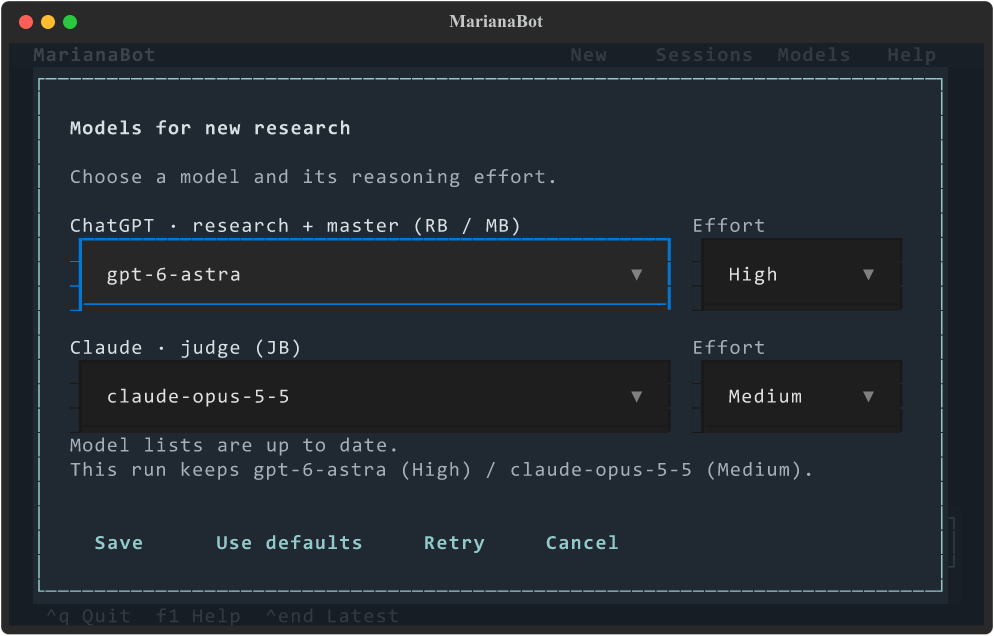
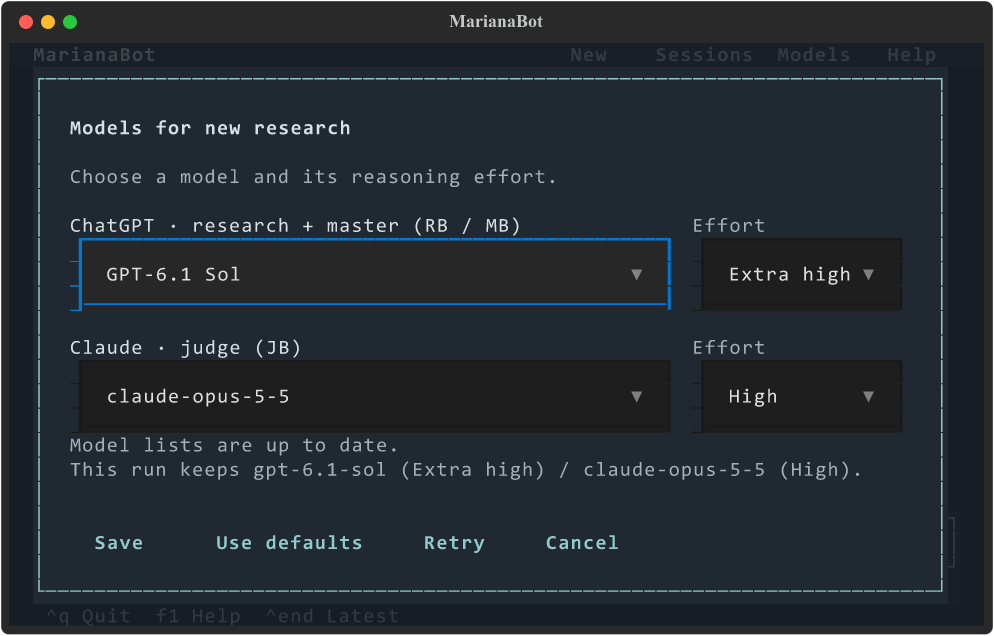
Refresh sample screenshots

diff --git a/scripts/capture_chat.py b/scripts/capture_chat.py
@@ -1,5 +1,6 @@
 """Offline visual review: python scripts/capture_chat.py (optional: pip install resvg-py)."""
 
+import argparse
 import asyncio
 import os
 import tempfile
@@ -8,16 +9,16 @@ from pathlib import Path
 from unittest.mock import patch
 
 from marianabot.chat import Composer, MarianaChat
-from marianabot.config import Config
+from marianabot.config import Config, save_model_preferences
 from marianabot.engine import Engine
 from marianabot.model_catalog import ModelOption
 from marianabot.store import Store
 from marianabot.usage import normalize_usage
 
 
-async def main():
+async def main(output: Path):
     os.environ.pop("NO_COLOR", None)  # Capture the default color UI, regardless of CI logging mode.
-    output = Path(".mariana/visual-review").resolve()
+    output = output.resolve()
     output.mkdir(parents=True, exist_ok=True)
     with tempfile.TemporaryDirectory(prefix="mariana-visual-") as temp:
         state = Path(temp)
@@ -36,13 +37,17 @@ async def main():
             app.save_screenshot("help.svg", path=str(output))
         store = Store(state)
         config = Config()
+        config.rb.model, config.rb.effort = "gpt-6.1-sol", "xhigh"
+        config.jb.effort = "high"
+        save_model_preferences(state / "mariana.toml", config, None)
         config.research.max_rounds = 2
         config.research.min_rounds = 1
-        run_id = store.create_run(
-            "Develop a 30-day pilot for a local business subscription service. Budget: EUR 2,000. Time: 10 hours per week.",
-            config,
-            demo=True,
-        )
+        with patch("marianabot.store.research_id", return_value="MB-7K3M-9Q2R-5V8N"):
+            run_id = store.create_run(
+                "Evaluate a paid pilot for a local repair scheduling service. Budget: EUR 2,000. Time: 10 hours per week.",
+                config,
+                demo=True,
+            )
         await Engine(store, run_id).run()
         store.close()
         app = MarianaChat(state, state / "mariana.toml", demo=True, run_id=run_id)
@@ -81,14 +86,18 @@ async def main():
         # Synthetic account reports exercise the working layout without contacting providers.
         fixture = state / "usage-fixture"
         store = Store(fixture)
-        run_id = store.create_run("Usage display fixture. No model calls were made.", config)
+        with patch("marianabot.store.research_id", return_value="MB-7K3M-9Q2R-5V8N"):
+            run_id = store.create_run(
+                "Evaluate a paid pilot for a local repair scheduling service. Budget: EUR 2,000. Time: 10 hours per week.\n\nSynthetic preview; no model calls were made.",
+                config,
+            )
         store.update_run(run_id, status="running", round=2)
         store.message(
             run_id,
             "plan",
             "RB",
             "Round 2 · Research plan",
-            "### Test demand before committing the budget\n\nRecruit ten local businesses for interviews this week. Offer three paid pilots before building the full service.\n\n**Open question:** will buyers pay enough to cover delivery time?\n\nJB is checking the pricing assumptions and the cost of acquiring customers.",
+            "### Test demand before committing the budget\n\nInterview ten repair shops this week. Run a two-week pilot with five shops before building the full service.\n\n**Changed:** smaller pilot, a fixed spending ceiling and explicit cancellation criteria.\n\n**Open question:** will buyers pay enough to cover delivery time?\n\nJB is checking the pricing assumptions and the cost of acquiring customers.",
         )
         now = time.time()
         for provider, brain, incoming, outgoing in (
@@ -131,7 +140,7 @@ async def main():
 
         app = MarianaChat(fixture, state / "mariana.toml", run_id=run_id, manager=PreviewManager())
         with patch.object(app, "request_usage_refresh", return_value=None):
-            async with app.run_test(size=(120, 32)) as pilot:
+            async with app.run_test(size=(120, 38)) as pilot:
                 await pilot.pause(1)
                 app.save_screenshot("usage.svg", path=str(output))
                 await pilot.resize_terminal(80, 24)
@@ -152,4 +161,6 @@ async def main():
 
 
 if __name__ == "__main__":
-    asyncio.run(main())
+    parser = argparse.ArgumentParser(description=__doc__)
+    parser.add_argument("--output", type=Path, default=Path(".mariana/visual-review"))
+    asyncio.run(main(parser.parse_args().output))

diff --git a/scripts/preview_discord.py b/scripts/preview_discord.py
@@ -15,7 +15,7 @@ def fixtures() -> list[dict]:
     config.rb.model, config.rb.effort = "gpt-6.1-sol", "xhigh"
     config.jb.effort = "high"
     run = dict(
-        id="preview-only",
+        id="MB-7K3M-9Q2R-5V8N",
         problem="Evaluate a paid pilot for a local repair scheduling service.",
         config=config.model_dump_json(),
         demo=True,
@@ -112,22 +112,38 @@ def svg_card(embed: dict) -> str:
     """One representative card for a portable visual review."""
     elements, y = [], 58
 
-    def text(value: str, *, bold=False, muted=False, width=76):
+    def text(value: str, *, bold=False, muted=False, width=76, x=38):
         nonlocal y
         for paragraph in value.splitlines():
             for line in textwrap.wrap(paragraph, width) or [""]:
                 elements.append(
-                    f'<text x="38" y="{y}" font-size="{14 if bold else 13}" font-weight="{600 if bold else 400}" fill="{"#aab0bb" if muted else "#e1e3e8"}">{html.escape(line)}</text>'
+                    f'<text x="{x}" y="{y}" font-size="{14 if bold else 13}" font-weight="{600 if bold else 400}" fill="{"#aab0bb" if muted else "#e1e3e8"}">{html.escape(line)}</text>'
                 )
                 y += 20
 
     text(embed["title"], bold=True)
     y += 6
     text(embed["description"])
-    for field in embed["fields"]:
+    fields = iter(embed["fields"])
+    pending = next(fields, None)
+    while pending:
         y += 14
-        text(field["name"], bold=True)
-        text(field["value"])
+        if not pending["inline"]:
+            text(pending["name"], bold=True)
+            text(pending["value"])
+            pending = next(fields, None)
+            continue
+        row = []
+        while pending and pending["inline"] and len(row) < 3:
+            row.append(pending)
+            pending = next(fields, None)
+        top, bottom = y, y
+        for column, field in enumerate(row):
+            y = top
+            text(field["name"], bold=True, width=26, x=38 + column * 202)
+            text(field["value"], width=26, x=38 + column * 202)
+            bottom = max(bottom, y)
+        y = bottom
     y += 18
     text(embed["footer"]["text"], muted=True)
     height = y + 22
@@ -162,7 +178,14 @@ footer{font-size:11px;color:#aab0bb;margin-top:20px}@media(max-width:520px){.fie
     path.with_suffix(".json").write_text(
         json.dumps(cards, indent=2, ensure_ascii=False), encoding="utf-8"
     )
-    path.with_suffix(".svg").write_text(svg_card(cards[-1]), encoding="utf-8")
+    svg = svg_card(cards[-1])
+    path.with_suffix(".svg").write_text(svg, encoding="utf-8")
+    try:
+        import resvg_py
+    except ImportError:
+        print("Install resvg-py to also render the recap as a PNG.")
+    else:
+        path.with_suffix(".png").write_bytes(resvg_py.svg_to_bytes(svg_string=svg))
     print(path.resolve())
 
 

diff --git a/docs/testing.md b/docs/testing.md
@@ -28,7 +28,7 @@ subprocesses; they cannot establish live provider behavior.
 | Tool | Purpose | Requirements |
 |---|---|---|
 | [`scripts/capture_chat.py`](../scripts/capture_chat.py) | Capture the real terminal UI using synthetic research and usage | Base app; optional `resvg-py` for PNG output |
-| [`scripts/preview_discord.py`](../scripts/preview_discord.py) | Preview notification cards with synthetic data as HTML and SVG | Base app; no bot connection or model calls |
+| [`scripts/preview_discord.py`](../scripts/preview_discord.py) | Preview notification cards with synthetic data as HTML and SVG | Base app; optional `resvg-py` for PNG output; no bot connection or model calls |
 | [`scripts/check_updater.py`](../scripts/check_updater.py) | Build, validate and launch an update in a disposable checkout | Git and network access for Python packages |
 | [`scripts/check_linux_service.py`](../scripts/check_linux_service.py) | Check service interruption, checkpoint recovery and preservation of a deliberate pause | Linux, systemd user services and tmux |
 
@@ -37,11 +37,21 @@ tools above do not call model providers. The updater check uses temporary reposi
 environments. The Linux check creates and removes a temporary user service and
 demo database, independently of the normal research service.
 
-The screenshot tool writes to the gitignored `.mariana/visual-review/` directory.
+Both visual tools write to the gitignored `.mariana/visual-review/` directory by
+default. To regenerate the documentation images in a separate output folder:
+
+```text
+python -m pip install resvg-py
+python scripts/capture_chat.py --output .mariana/visual-review/current-samples
+python scripts/preview_discord.py --output .mariana/visual-review/current-samples/discord-updates.html
+```
+
 The published images use synthetic data: `usage.png` supplies
 [`docs/assets/chat.png`](assets/chat.png), and `models-narrow.png` supplies
-[`docs/assets/models.png`](assets/models.png). Review any replacement before
-publishing it; personal research should never appear in documentation screenshots.
+[`docs/assets/models.png`](assets/models.png). `discord-updates.png` supplies
+[`docs/assets/discord.png`](assets/discord.png), a synthetic recap preview rendered
+from the bot's actual embed builder. Review any replacement before publishing it;
+personal research should never appear in documentation screenshots.
 
 ## Live verification
 

diff --git a/README.md b/README.md
@@ -5,7 +5,7 @@ let a research team build a plan, and let a separate review team challenge it.
 Ask questions or change direction while they work. Each round, critique and
 decision stays in a local research history.
 
-![MarianaBot conversation and persistent usage display; offline demonstration.](docs/assets/chat.png)
+![MarianaBot research conversation with a readable research ID and fixed info panel showing models, efforts and usage; synthetic data.](docs/assets/chat.png)
 
 MarianaBot runs on **your own computer by default**, using your own ChatGPT and
 Claude subscription logins through the official Codex and Claude Code clients.
@@ -163,6 +163,10 @@ integration supports `/mariana ask`, `steer`, `pause`, `resume` and status updat
 You create your own bot, choose allowed users, and explicitly select which run to
 share. It is disabled by default, with private credentials kept outside Git.
 Follow the [Discord setup guide](docs/discord.md).
+
+![Discord round recap preview with the research ID, findings, changes, next steps, timing and token usage; synthetic data.](docs/assets/discord.png)
+
+Synthetic card preview; no Discord connection or model calls were made.
 
 ## Automatic updates
 

diff --git a/docs/laptop.md b/docs/laptop.md
@@ -66,7 +66,7 @@ does not request a fallback model. Saved choices affect new runs, while an
 existing conversation retains its original settings. MB and compaction use the
 research model. The screen shows the current run's choices when one is open.
 
-![Model and effort preferences in an 80-column terminal](assets/models.png)
+![Model and effort menus showing GPT-6.1 Sol at extra high and Claude Opus 5.5 at high in an 80-column terminal; offline fixture.](assets/models.png)
 
 Older research is automatically summarized using MB's allowance. The current
 brief, pins and recorded objections stay verbatim; full originals remain saved.

diff --git a/docs/discord.md b/docs/discord.md
@@ -274,3 +274,6 @@ python scripts/preview_discord.py
 
 Open `.mariana/visual-review/discord-updates.html` locally. This preview does not
 start research or contact model providers.
+With `resvg-py` installed, the script also writes a PNG of the round recap.
+See the [sample recap](assets/discord.png); it uses the current embed builder
+and synthetic data.
